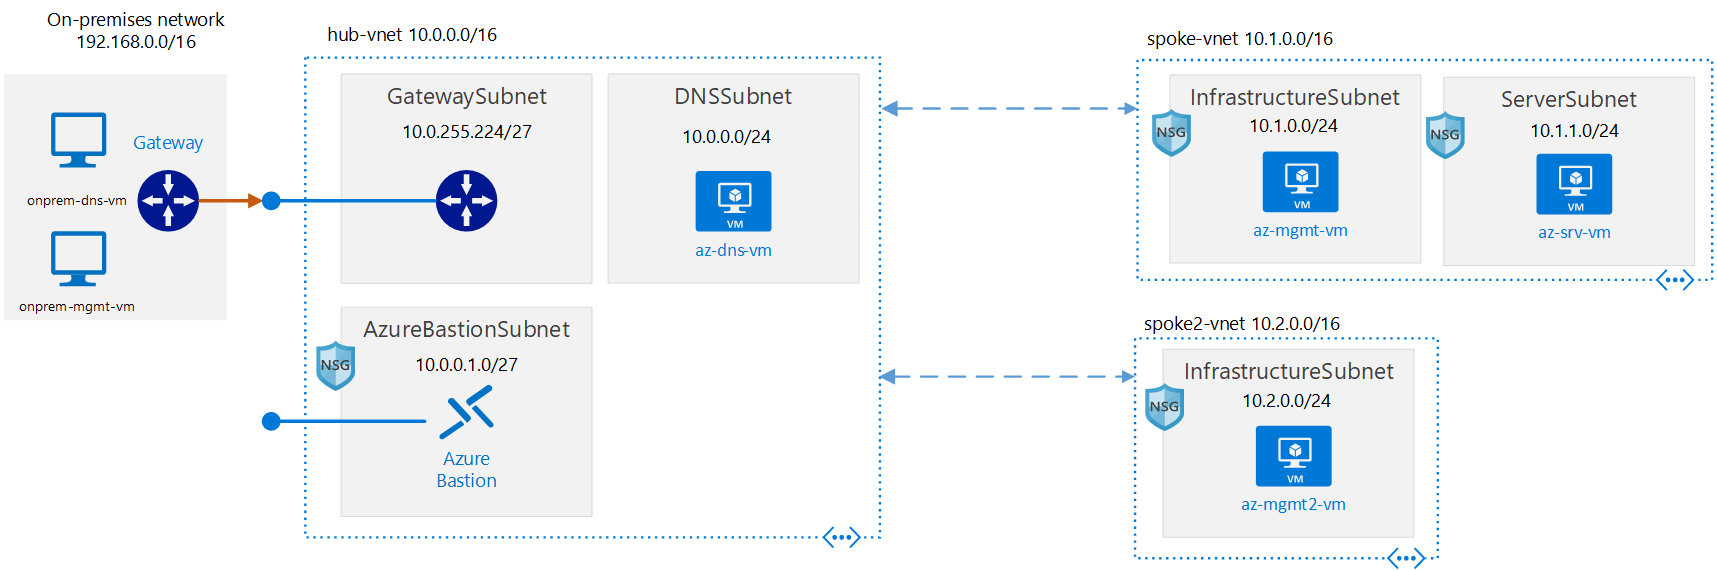
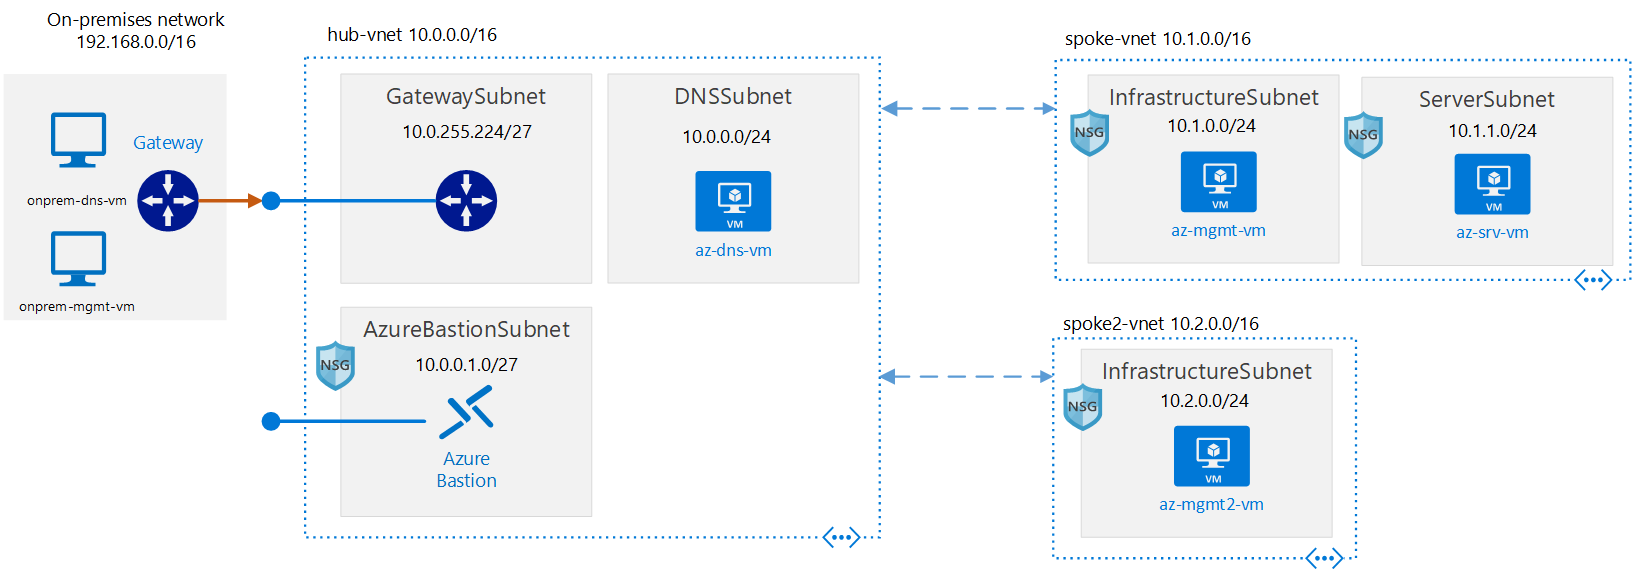
update

diff --git a/README.md b/README.md
@@ -4,9 +4,15 @@
 
 [MicroHack introduction and context](#Scenario)
 
-[Challenge 1 : Working with user defiend route UDR and Network Security Group NSG](#challenge 1: Working with user defiend route UDR and Network Security Group NSG)
+[Pre-requisites](#Pre-requisites)
 
-[Challenge 3 : Deploy a Private Endpoint to utilise Azure Private Link for access to Azure SQL](# Challenge 2: Route internet traffic through Azure Firewall)
+[Challenge 1 : Working with user defiend route UDR and Network Security Group NSG](#Challenge-1:-Working-with-user-defiend-route-UDR-and-Network-Security-Group-NSG)
+
+[Challenge 3 : Route internet traffic through Azure Firewall](#Challenge-2:-Route-internet-traffic-through-Azure-Firewall)
+
+[Challenge 3: Control network with Aziure Policies](#Challenge-3:-Control-network-with-Azure-Policies)
+
+[Challenge 3: Monitoring](#Challenge-4:-Monitoring)
 
 
 # Scenario
@@ -25,7 +31,7 @@ In order to use the MicroHack time most effectively, the following tasks should 
 
 With these pre-requisites in place, we can focus on building the differentiated knowledge in Azure Networking that is required when working with the product, rather than spending hours repeating relatively simple tasks such as setting up Virtual Networks and Virtual Machines. 
 
-At the end of this section your base lab build looks as follows:
+At the end of the pre-requisites your base lab build looks as follows:
 
 ![image](images/hub-spoke.png)
 
@@ -34,9 +40,9 @@ In summary:
 - "On-Premises" environment simulated by Azure Virtual Network
 - On-Premises contains a management VM (*onprem-mgmt-vm*) and a dns server VM (*onprem-dns-vm*)
 - On-Premises is connected to Azure via a Site-to-Site VPN
-- Azure contains a simple Hub and Spoke topology, containing a management VM in the spoke (*az-mgmt-vm*) and a dns server VM in the hub (*az-dns-vm*)
-- Azure Bastion is deployed in all VNets to enable easy remote desktop access to the Windows VMs
-- All of the above is deployed within a single resource group called *privatelink-dns-microhack-rg*
+- Azure contains a simple Hub and Spoke topology, containing a management VMs in the spokes (*az-mgmt-vm, az-mgmt2-vm, az-srv-vm*) and a dns server VM in the hub (*az-dns-vm*)
+- Azure Bastion is deployed in hub VNet to enable easy remote desktop access to the Windows VMs
+- All of the above is deployed within a single resource group called *hub-spoke-microhack-rg*
 
 ## Task 1 : Deploy Template
 
@@ -82,13 +88,13 @@ Password: {as per above step}
 # Challenge 1: Understand vNet peering, UDR and NSG 
 
 
-# Challenge 3: Understand vNet peering, UDR and NSG 
+ 
 
 # Challenge 2: Route internet traffic through Azure Firewall
 
-In this challenge you will explore how Contoso can address the performance problem reported by WVD users. You will build a secure edge in Azure, thus removing the need to route all internet-bound connections to Contoso's on-prem datacenter (red line). Routing WVD traffic directly to the internet via Azure Firewall reduces latency and improves user experience (green line).
+In this challenge you will explore how we can send all traffic through a Firewall, instead of go direct to Internet. You will build a secure hub in Azure. Routing all traffic directly to the Azure Firewall.
 
-![image](images/forced-vs-direct.png)
+![image](images/hub-spoke-azfw.png)
 
 ## Task 1: Deploy Azure Firewall
 
@@ -98,7 +104,7 @@ In the Azure Portal, deploy a new Azure Firewall instance in the hub-vnet. A sub
 
 > Please note that the "Forced tunneling" switch must be disabled. The switch allows forwarding internet traffic to custom next hops (including gateways connected to remote networks) after it has been inspected by Azure Firewall. In this scenario, you are using Azure Firewall as your secure internet edge and want your internet traffic to egress to the internet directly, after being inspected by Azure Firewall.
 
-Your Azure Firewall instance will take about 10 minutes to deploy. When the deployment completes, go to the new firewall's overview tile a take note of its *private* IP address. This IP address will become the default gateway for Contoso's Azure VNets. 
+Your Azure Firewall instance will take about 10 minutes to deploy. When the deployment completes, go to the new firewall's overview tile a take note of its *private* IP address. 
 
 ## Task 2: Configure a default route via azure Firewall
 
@@ -110,57 +116,37 @@ Go to the Route Table "spoke-vnet-rt" and modify the next hop of the default rou
 
 ![image](images/default-via-azfw.png)
 
-Remove the default route configuration from the VPN gateway (configured in Challenge 1):
-
 Verify that you no longer have connectivity to the internet from the az-mgmt-vm. Connections are now being routed to Azure Firewall, which is running with the default "deny all" policy.
 
-## Task 3: Implement Contoso's security policy with Azure Firewall rules
+## Task 3: Implement policy with Azure Firewall rules to connect to on-premixes
 
-Configure Azure Firewall to implement the same internet access policy as Contoso's on-premises proxy:
+Configure Azure Firewall to implement the same access as before :
 
-- Access to "docs.microsoft.com" is allowed
-- Access to "ipinfo.io" is allowed
-- Access to any other sites is denied
+- Access from spoke-vnet to onprem-vnet is allowed
+- Access from spoke-vnet to spoke-vnet is allowed
+- Access to any destination is denied
 
 In the Azure Portal, create a new application rule collection for Azure Firewall as shown in the screenshot below.
 
 ![image](images/manual-azfw-policy.png)
 
-Confirm that you can now access https://ipinfo.io and https://docs.microsoft.com. Verify that your public IP address is now the public IP address of your Azure Firewall.
+Confirm that you can now access by usering following command
+
 
 ![image](images/azfw-public-ip.png)
 
 ## Task 4: Enable access to WVD endpoints via Azure Firewall
 
-In this task you will address the performance issues reported by Contoso's WVD users, by allowing direct access to WVD endpoints via Azure Firewall. 
 
-WVD session hosts connect to a list of well-known endpoints, documented [here](https://docs.microsoft.com/en-us/azure/virtual-desktop/safe-url-list#virtual-machines). Each WVD endpoint has an associated Azure Service Tag. 
-
-![image](images/wvd-endpoints.png)
-
-Azure Firewall supports service tags, which would make it easy to configure rules to allow access to WVD required URLs.  However, Azure Firewall rules allowing connections to "Azure Cloud" and "Internet" are too permissive and not compatible with Contoso's security requirements.
-
-You have negotiated with the security team a solution that strikes an acceptable trade-off between security and WVD performance:
-
-- Only the "Windows Virtual Desktop" service tag, which corresponds to a small set of Microsoft-controlled endpoints, will be used in the firewall configuration
-- For the other required URLs, application rules matching only the specific URLs will be used.
-
-To implement this policy, go to the "scripts/" directory and execute the wvd-firewall-rules.ps1 script. 
-
-  `cd internet-outbound/scripts`
-
-  `./wvd-firewall-rules.ps1 -AzFwName <your Azure Firewall name>`
-
-When done, go to your Azure Firewall configuration in the portal and verify that you have two rule collections (one network rule collection, one application rule collection) that allow access to the endpoints listed in the previous figure.
 
 ## :checkered_flag: Results
 
 You have implemented a secure internet edge based on Azure Firewall, which allows Contoso to control internet access for the wvd-workstation without routing traffic to the on-prem proxy. This approach reduces latency for connections between the wvd-workstation and the WVD control plane endpoints and helps improve the WVD user experience. It also allows Contoso to provide WVD users with access to external, trusted web sites directly from Azure.
 
-# Challenge 3: Understand vNet peering, UDR and NSG 
+# Challenge 3: Control network with Azure Policies
 
 
-# Challenge 3: Monitoring
+# Challenge 4: Monitoring
 
 # Finished? Delete your lab
 
